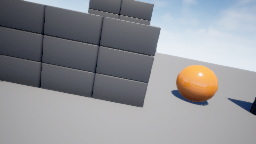
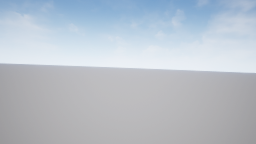
camera testing

diff --git a/camera_test.py b/camera_test.py
@@ -5,6 +5,9 @@ import cv2
 import pprint
 import time
 
+
+drone = "0"
+
 # directory to store pictures
 imgDir = os.path.join(os.path.dirname(os.path.abspath(__file__)), 'images')
 
@@ -17,12 +20,12 @@ client = airsim.MultirotorClient()
 
 # connect to AirSim simulator
 client.confirmConnection()
-client.enableApiControl(True)
-client.armDisarm(True)
+client.enableApiControl(True, vehicle_name=drone)
+client.armDisarm(True, vehicle_name=drone)
 
 # Async methods returns Future. Call join() to wait for task to complete.
-client.takeoffAsync().join()
-client.moveToPositionAsync(-10, 10, -10, 5).join()
+client.takeoffAsync(vehicle_name=drone).join()
+client.moveToPositionAsync(-10, 10, -100, 5).join()
 
 
 responses = client.simGetImages([airsim.ImageRequest("0", airsim.ImageType.Scene, False, False)])
